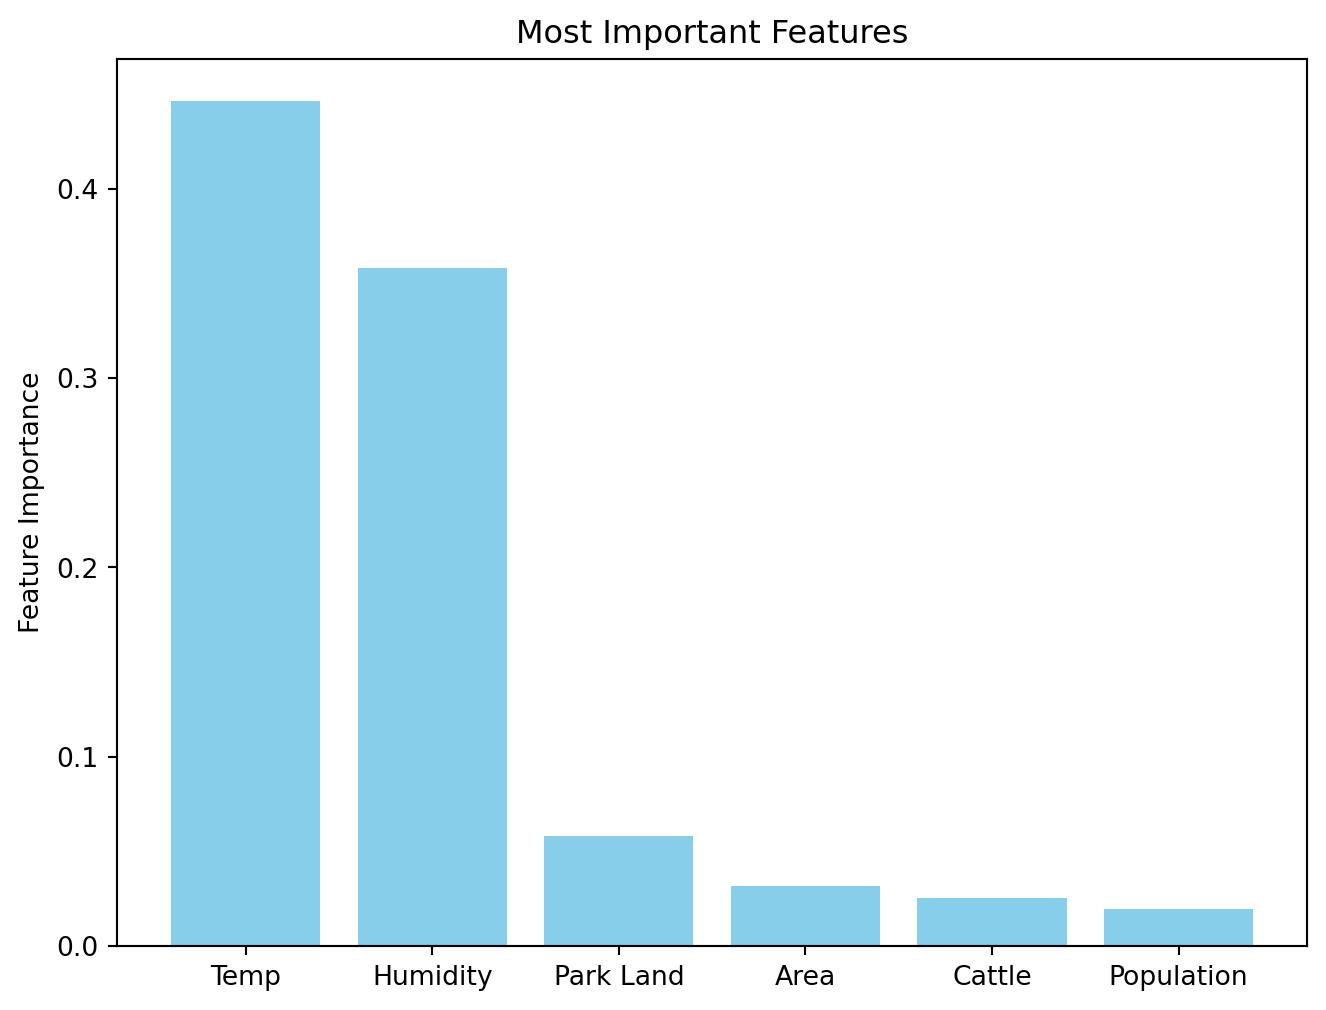
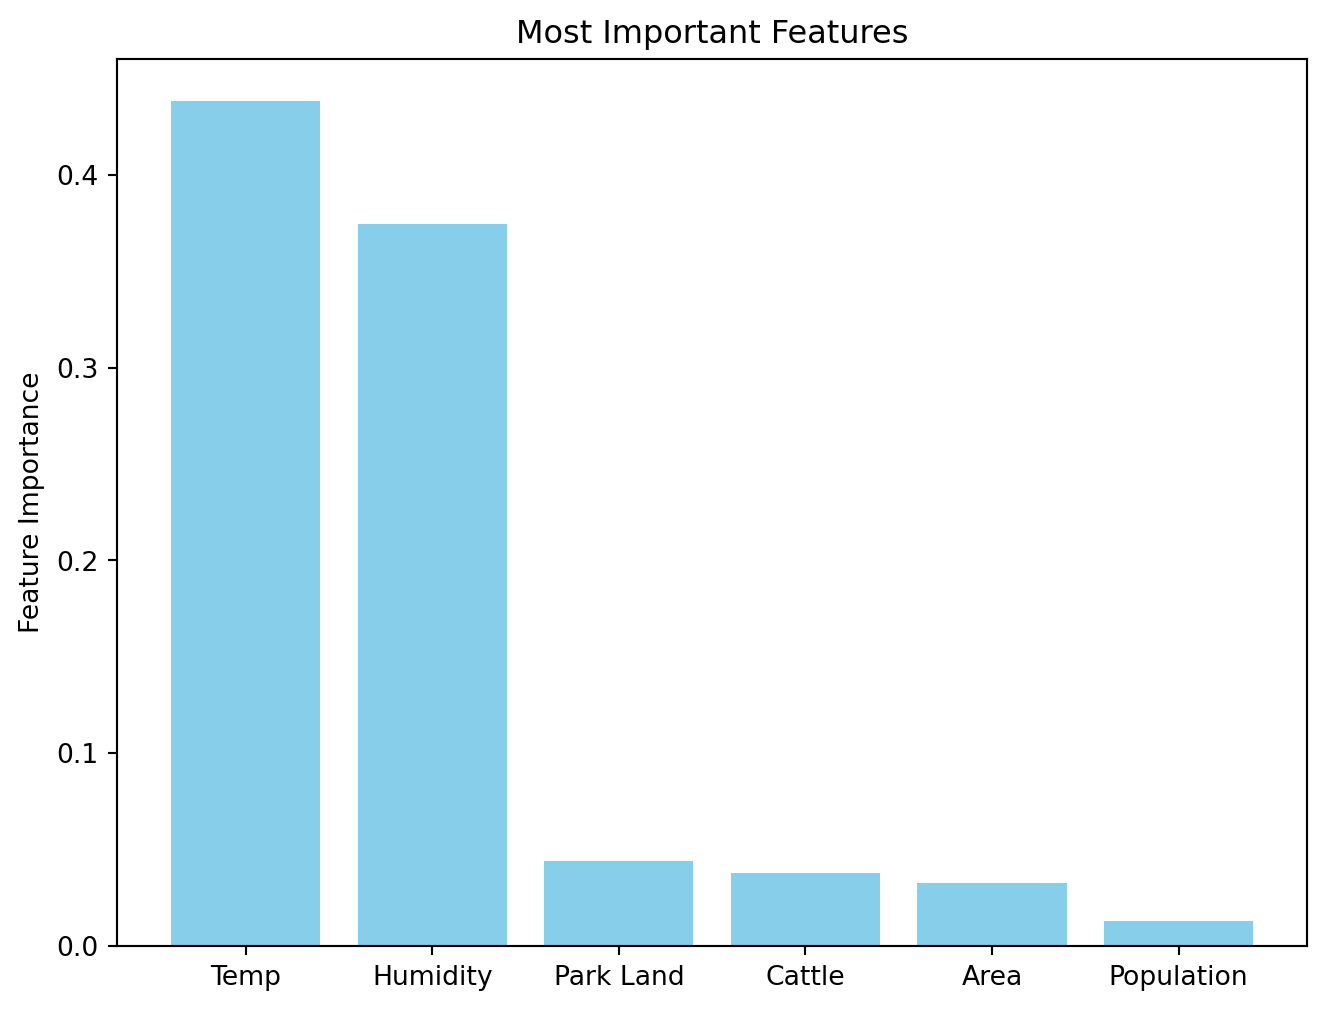
Built site for gh-pages

diff --git a/capstone.html b/capstone.html
@@ -554,8 +554,8 @@ window.Quarto = {
 <p>An initial Random Forest Model run with the selected features returns the following Cohen Kappa score and accuracy:</p>
 <div id="cks-accuracy" class="cell" data-execution_count="23">
 <div class="cell-output cell-output-stdout">
-<pre><code>Cohen Kappa Score:  0.47631259605872944
-Accuracy:  0.7370713119216113</code></pre>
+<pre><code>Cohen Kappa Score:  0.46663655247025737
+Accuracy:  0.7316276537833424</code></pre>
 </div>
 </div>
 <div class="quarto-figure quarto-figure-center">
@@ -618,7 +618,7 @@ Accuracy:  0.7370713119216113</code></pre>
 <tr class="even">
 <td data-quarto-table-cell-role="th">1</td>
 <td>RF_model__max_depth</td>
-<td>9</td>
+<td>7</td>
 </tr>
 <tr class="odd">
 <td data-quarto-table-cell-role="th">2</td>
@@ -628,27 +628,27 @@ Accuracy:  0.7370713119216113</code></pre>
 <tr class="even">
 <td data-quarto-table-cell-role="th">3</td>
 <td>RF_model__min_samples_leaf</td>
-<td>8</td>
+<td>7</td>
 </tr>
 <tr class="odd">
 <td data-quarto-table-cell-role="th">4</td>
 <td>RF_model__min_samples_split</td>
-<td>8</td>
+<td>3</td>
 </tr>
 <tr class="even">
 <td data-quarto-table-cell-role="th">5</td>
 <td>RF_model__n_estimators</td>
-<td>95</td>
+<td>82</td>
 </tr>
 <tr class="odd">
 <td data-quarto-table-cell-role="th">6</td>
 <td>aqi_transformer__categories__max_categories</td>
-<td>8</td>
+<td>10</td>
 </tr>
 <tr class="even">
 <td data-quarto-table-cell-role="th">7</td>
 <td>aqi_transformer__categories__min_frequency</td>
-<td>15</td>
+<td>14</td>
 </tr>
 </tbody>
 </table>
@@ -660,8 +660,8 @@ Accuracy:  0.7370713119216113</code></pre>
 <p>Using these hyperparameters, we reach an accuracy of over 70%.</p>
 <div id="predict-x_test-final" class="cell" data-execution_count="35">
 <div class="cell-output cell-output-stdout">
-<pre><code>Cohen Kappa Score:  0.4639599423354588
-Accuracy:  0.7169297768100164</code></pre>
+<pre><code>Cohen Kappa Score:  0.46088114202248975
+Accuracy:  0.7158410451823626</code></pre>
 </div>
 </div>
 <div class="quarto-figure quarto-figure-center">
@@ -697,30 +697,30 @@ Accuracy:  0.7169297768100164</code></pre>
 </tr>
 <tr class="even">
 <td data-quarto-table-cell-role="th">26-50</td>
-<td>0.786441</td>
-<td>0.877956</td>
-<td>0.829683</td>
+<td>0.783898</td>
+<td>0.875118</td>
+<td>0.827000</td>
 <td>1057.0</td>
 </tr>
 <tr class="odd">
 <td data-quarto-table-cell-role="th">51-75</td>
-<td>0.622540</td>
+<td>0.614841</td>
 <td>0.578073</td>
-<td>0.599483</td>
+<td>0.595890</td>
 <td>602.0</td>
 </tr>
 <tr class="even">
 <td data-quarto-table-cell-role="th">76-100</td>
-<td>0.350000</td>
-<td>0.194444</td>
-<td>0.250000</td>
+<td>0.372549</td>
+<td>0.175926</td>
+<td>0.238994</td>
 <td>108.0</td>
 </tr>
 <tr class="odd">
 <td data-quarto-table-cell-role="th">101-200</td>
-<td>0.526316</td>
-<td>0.333333</td>
-<td>0.408163</td>
+<td>0.575000</td>
+<td>0.383333</td>
+<td>0.460000</td>
 <td>60.0</td>
 </tr>
 <tr class="even">
